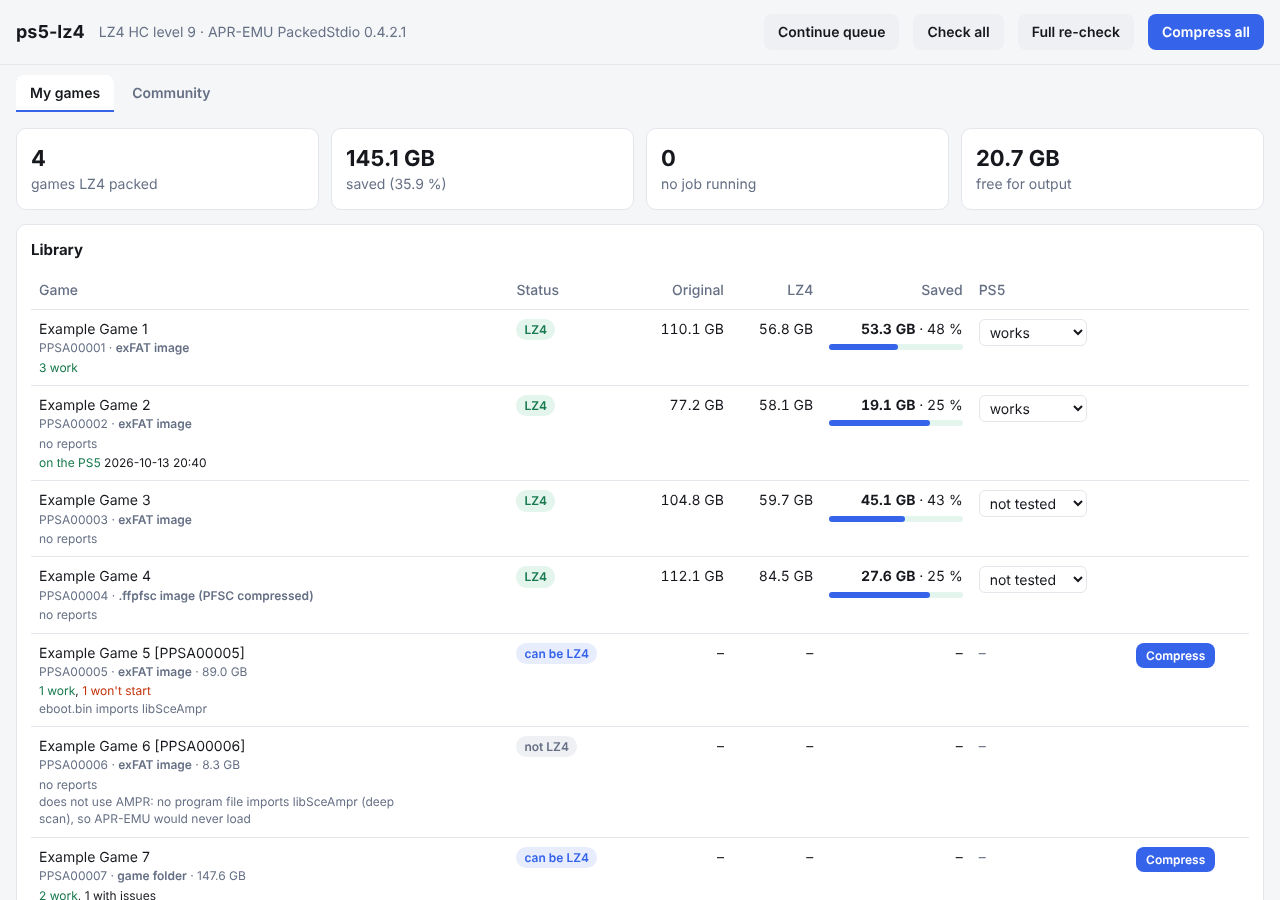
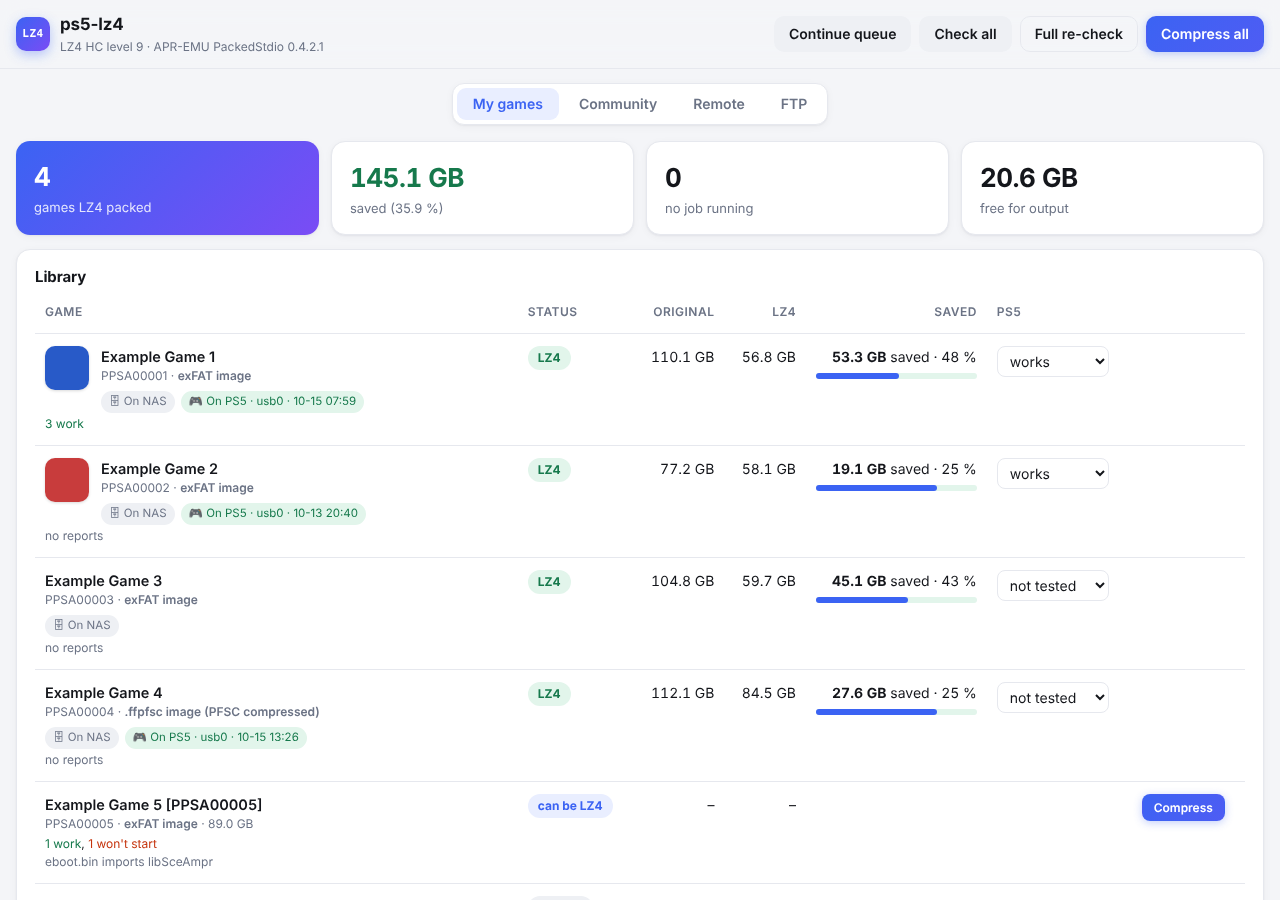
Web page: visual refresh
Sticky header with a logo, tabs as a segmented control, softer cards and
shadows, gradient primary buttons, clearer pills and chips (On NAS / On PS5
with the drive and date instead of long paths), uppercase table headers,
light and dark themes. On phones the library is a list of cards, header
buttons scroll with Compress all first, and game details open as a bottom
sheet. New example-game screenshot.

Claude-Session: https://claude.ai/code/session_01E59aT56xFViZr97Uu2YrmJ

diff --git a/nas-lz4/ui.html b/nas-lz4/ui.html
@@ -5,73 +5,137 @@
 <meta name="viewport" content="width=device-width, initial-scale=1">
 <title>ps5-lz4</title>
 <style>
-:root{--bg:#f5f6f8;--card:#fff;--line:#e3e6eb;--txt:#16181d;--mut:#667085;--ok:#18794e;--okbg:#e3f5ec;--acc:#3563e9;--accbg:#e7edfd;--warn:#9a6700;--warnbg:#fdf3dc;--bad:#c4320a;--badbg:#fdeae5;--chip:#eef0f3}
-@media (prefers-color-scheme:dark){:root{--bg:#0f1115;--card:#171a21;--line:#262b35;--txt:#e6e8ec;--mut:#8b93a3;--ok:#3fb68b;--okbg:#1d3a30;--acc:#5b8cff;--accbg:#1f2c4d;--warn:#e0a43a;--warnbg:#3a3220;--bad:#f0776f;--badbg:#3a2224;--chip:#232835}}
+:root{--bg:#f4f5f8;--card:#fff;--line:#e6e8ee;--txt:#14161b;--mut:#6b7385;--ok:#16794c;--okbg:#e2f5eb;--acc:#3b63f3;--acc2:#7a4cf5;--accbg:#e9eeff;--warn:#9a6200;--warnbg:#fdf2d8;--bad:#c5340d;--badbg:#fdebe5;--chip:#eef0f4;--shadow:0 1px 2px rgba(16,24,40,.05),0 2px 8px rgba(16,24,40,.04);--hdr:rgba(244,245,248,.82)}
+@media (prefers-color-scheme:dark){:root{--bg:#0d0f14;--card:#161920;--line:#252a35;--txt:#e7e9ee;--mut:#8c94a5;--ok:#43c08f;--okbg:#17332a;--acc:#6b8dff;--acc2:#a07bff;--accbg:#1c2747;--warn:#e7ad46;--warnbg:#382e1b;--bad:#f2807a;--badbg:#3a2124;--chip:#20242e;--shadow:0 1px 2px rgba(0,0,0,.3);--hdr:rgba(13,15,20,.8)}}
 *{box-sizing:border-box}
 [hidden]{display:none!important}
-body{margin:0;background:var(--bg);color:var(--txt);font:14px/1.45 -apple-system,Segoe UI,Roboto,sans-serif}
-header{display:flex;flex-wrap:wrap;align-items:center;gap:10px 14px;padding:14px 16px;border-bottom:1px solid var(--line)}
-header h1{font-size:18px;margin:0}.sub{color:var(--mut)}.sp{flex:1}
-button{font:inherit;border:0;border-radius:8px;padding:8px 14px;font-weight:600;cursor:pointer;background:var(--chip);color:var(--txt)}
-button.pri{background:var(--acc);color:#fff}button:disabled{opacity:.5;cursor:default}
-button.sm{padding:4px 10px;font-size:12px}
+html{-webkit-text-size-adjust:100%}
+body{margin:0;background:var(--bg);color:var(--txt);font:14px/1.5 -apple-system,BlinkMacSystemFont,"SF Pro Text","Segoe UI",Roboto,Inter,sans-serif;-webkit-font-smoothing:antialiased}
+a{color:var(--acc);text-decoration:none}a:hover{text-decoration:underline}
+code{font:12px/1.4 ui-monospace,SFMono-Regular,Menlo,monospace;background:var(--chip);padding:1px 5px;border-radius:5px}
+/* header */
+header{position:sticky;top:0;z-index:5;display:flex;flex-wrap:wrap;align-items:center;gap:10px 16px;padding:12px max(16px,calc((100% - 1280px)/2 + 16px));background:var(--hdr);backdrop-filter:saturate(180%) blur(14px);-webkit-backdrop-filter:saturate(180%) blur(14px);border-bottom:1px solid var(--line)}
+.brand{display:flex;align-items:center;gap:10px;min-width:0}
+.logo{width:34px;height:34px;border-radius:10px;background:linear-gradient(135deg,var(--acc),var(--acc2));color:#fff;display:grid;place-items:center;font:800 11px/1 ui-monospace,Menlo,monospace;letter-spacing:.5px;box-shadow:0 4px 12px rgba(59,99,243,.35)}
+header h1{font-size:17px;margin:0;letter-spacing:-.2px}.sub{color:var(--mut);font-size:12px;display:block;white-space:nowrap;overflow:hidden;text-overflow:ellipsis}
+.sp{flex:1}
+.hacts{display:flex;gap:8px;flex-wrap:wrap}
+/* buttons */
+button,label.btn{font:inherit;font-weight:600;border:1px solid transparent;border-radius:10px;padding:8px 14px;cursor:pointer;background:var(--chip);color:var(--txt);transition:background .15s,transform .05s,box-shadow .15s;display:inline-flex;align-items:center;gap:6px;line-height:1.3}
+button:hover,label.btn:hover{background:color-mix(in srgb,var(--chip) 80%,var(--txt) 8%)}
+button:active{transform:translateY(1px)}
+button:focus-visible,select:focus-visible,input:focus-visible{outline:2px solid var(--acc);outline-offset:2px}
+button.pri{background:linear-gradient(135deg,var(--acc),color-mix(in srgb,var(--acc) 70%,var(--acc2)));color:#fff;box-shadow:0 2px 8px rgba(59,99,243,.3)}
+button.pri:hover{filter:brightness(1.07)}
+button.ghost{background:transparent;border-color:var(--line)}
+button:disabled{opacity:.5;cursor:default;transform:none}
+button.sm{padding:5px 11px;font-size:12px;border-radius:8px}
+/* tabs */
+.tabs{position:sticky;top:59px;z-index:4;display:flex;gap:4px;margin:14px auto 0;padding:4px;max-width:max-content;background:var(--card);border:1px solid var(--line);border-radius:12px;box-shadow:var(--shadow);overflow-x:auto;scrollbar-width:none}
+.tabs::-webkit-scrollbar{display:none}
+.tabs button{background:none;border:0;border-radius:9px;color:var(--mut);padding:7px 16px;white-space:nowrap;box-shadow:none}
+.tabs button:hover{color:var(--txt);background:var(--chip)}
+.tabs button.on{background:var(--accbg);color:var(--acc)}
+/* layout */
 main{padding:16px;display:grid;grid-template-columns:minmax(0,1fr);gap:14px;max-width:1280px;margin:0 auto}
-.kpis{display:grid;grid-template-columns:repeat(auto-fit,minmax(150px,1fr));gap:12px}
-.k,.card{background:var(--card);border:1px solid var(--line);border-radius:10px;padding:14px}
-.k b{font-size:22px;display:block}.k span,.mut{color:var(--mut)}
-h2{font-size:15px;margin:0 0 10px}
-.steps{display:grid;grid-template-columns:repeat(6,1fr);gap:6px;margin:10px 0}
-.st{padding:6px 4px;border-radius:6px;background:var(--chip);color:var(--mut);text-align:center;font-size:12px}
-.st.d{background:var(--okbg);color:var(--ok)}.st.r{background:var(--accbg);color:var(--acc);font-weight:600}
-.bar{height:8px;background:var(--chip);border-radius:4px;overflow:hidden}.bar i{display:block;height:100%;background:var(--acc);transition:width .5s}
+.card,.k{background:var(--card);border:1px solid var(--line);border-radius:14px;padding:16px 18px;box-shadow:var(--shadow)}
+h2{font-size:15px;margin:0 0 10px;letter-spacing:-.1px}
+.mut{color:var(--mut)}
+.kpis{display:grid;grid-template-columns:repeat(auto-fit,minmax(170px,1fr));gap:12px}
+.k{position:relative;overflow:hidden}
+.k b{font-size:26px;display:block;letter-spacing:-.5px;font-variant-numeric:tabular-nums}
+.k span{color:var(--mut);font-size:13px}
+.k:first-child{background:linear-gradient(135deg,var(--acc),var(--acc2));border:0;color:#fff}.k:first-child span{color:rgba(255,255,255,.85)}
+.k:nth-child(2) b{color:var(--ok)}
+/* job */
+.steps{display:grid;grid-template-columns:repeat(6,1fr);gap:6px;margin:12px 0}
+.st{padding:7px 4px;border-radius:8px;background:var(--chip);color:var(--mut);text-align:center;font-size:12px;font-weight:500}
+.st.d{background:var(--okbg);color:var(--ok)}.st.r{background:var(--accbg);color:var(--acc);font-weight:700;box-shadow:inset 0 0 0 1px var(--acc)}
+.bar{height:8px;background:var(--chip);border-radius:99px;overflow:hidden}
+.bar i{display:block;height:100%;background:linear-gradient(90deg,var(--acc),var(--acc2));border-radius:99px;transition:width .5s}
+/* tables */
 .scroll{overflow-x:auto}
 table{width:100%;border-collapse:collapse;min-width:820px}
-th,td{text-align:left;padding:9px 8px;border-top:1px solid var(--line);vertical-align:top}
-th{color:var(--mut);font-weight:500;border-top:0}
+th,td{text-align:left;padding:12px 10px;border-top:1px solid var(--line);vertical-align:top}
+th{color:var(--mut);font-weight:600;font-size:12px;text-transform:uppercase;letter-spacing:.04em;border-top:0;padding-top:4px}
 .num{text-align:right;font-variant-numeric:tabular-nums;white-space:nowrap}
-.pill{display:inline-block;padding:2px 8px;border-radius:99px;font-size:12px;font-weight:600;white-space:nowrap}
+tr.row{cursor:pointer}tr.row td{transition:background .12s}tr.row:hover td{background:color-mix(in srgb,var(--chip) 60%,transparent)}
+.gname{font-weight:600;font-size:14.5px}
+.pill{display:inline-flex;align-items:center;gap:4px;padding:3px 10px;border-radius:99px;font-size:12px;font-weight:700;white-space:nowrap}
 .p-LZ4{background:var(--okbg);color:var(--ok)}.p-can{background:var(--accbg);color:var(--acc)}
 .p-no{background:var(--chip);color:var(--mut)}.p-err{background:var(--badbg);color:var(--bad)}
 .p-run{background:var(--warnbg);color:var(--warn)}
-.why{font-size:12px;color:var(--mut);max-width:360px}
-.sz{height:6px;margin-top:5px;min-width:90px;border-radius:3px;background:var(--okbg)}
-.sz i{display:block;height:100%;border-radius:3px;background:var(--acc)}
-select{font:inherit;padding:3px 6px;border-radius:6px;border:1px solid var(--line);background:var(--card);color:var(--txt)}
+.chips{display:flex;flex-wrap:wrap;gap:4px 6px;margin-top:6px}
+.chip{display:inline-flex;align-items:center;gap:4px;font-size:11.5px;padding:2px 8px;border-radius:99px;background:var(--chip);color:var(--mut);white-space:nowrap;max-width:100%;overflow:hidden;text-overflow:ellipsis}
+.chip.ok{background:var(--okbg);color:var(--ok)}.chip.bad{background:var(--badbg);color:var(--bad)}
+.why{font-size:12px;color:var(--mut);max-width:420px}
+.sz{height:6px;margin-top:6px;min-width:90px;border-radius:99px;background:var(--okbg)}
+.sz i{display:block;height:100%;border-radius:99px;background:var(--acc)}
+select{font:inherit;padding:5px 8px;border-radius:8px;border:1px solid var(--line);background:var(--card);color:var(--txt)}
 .good{color:var(--ok)}.bad{color:var(--bad)}
-.log div{overflow-wrap:anywhere;padding:6px 0;border-top:1px solid var(--line);font-size:13px}.log div:first-child{border-top:0}
-.log pre{margin:4px 0 0;white-space:pre-wrap;overflow-wrap:anywhere;font-size:12px;color:var(--mut);max-height:120px;overflow:auto}
-a{color:var(--acc)}
-.tabs{display:flex;gap:4px;padding:10px 16px 0;max-width:1280px;margin:0 auto}
-.tabs button{background:none;border-radius:8px 8px 0 0;color:var(--mut);padding:8px 14px}
-.steps-list{margin:10px 0 0;padding-left:20px;line-height:1.5}.steps-list ul{padding-left:18px;margin:4px 0}.steps-list li{margin-bottom:4px}
-.ico{float:left;width:40px;height:40px;border-radius:8px;object-fit:cover;margin:0 10px 4px 0}.ico.big{width:72px;height:72px;border-radius:12px}.fi{display:inline-block;text-align:center;font-size:26px;line-height:40px}
-label.btn{display:inline-block;cursor:pointer;background:var(--chip);color:var(--txt);border-radius:8px;padding:8px 14px;font-weight:600}
-.tabs button.on{background:var(--card);color:var(--txt);box-shadow:inset 0 -2px 0 var(--acc)}
+.log div{overflow-wrap:anywhere;padding:8px 0;border-top:1px solid var(--line);font-size:13px}.log div:first-child{border-top:0}
+.log pre{margin:6px 0 0;white-space:pre-wrap;overflow-wrap:anywhere;font:12px/1.4 ui-monospace,Menlo,monospace;color:var(--mut);max-height:120px;overflow:auto;background:var(--bg);border-radius:8px;padding:8px}
+.steps-list{margin:10px 0 0;padding-left:20px;line-height:1.6}.steps-list ul{padding-left:18px;margin:4px 0}.steps-list li{margin-bottom:4px}
+.ico{float:left;width:44px;height:44px;border-radius:10px;object-fit:cover;margin:0 12px 4px 0;box-shadow:0 1px 3px rgba(0,0,0,.15)}
+.ico.big{width:84px;height:84px;border-radius:16px;margin-right:16px}
+.fi{display:inline-block;text-align:center;font-size:26px;line-height:44px;box-shadow:none}
 .filters{display:flex;flex-wrap:wrap;gap:8px;margin:12px 0}
-.filters input{font:inherit;padding:6px 10px;border-radius:8px;border:1px solid var(--line);background:var(--card);color:var(--txt);flex:1;min-width:180px}
-.mine{font-size:11px;font-weight:600;color:var(--acc);margin-left:6px}
+.filters input,.filters select{font:inherit;padding:8px 12px;border-radius:10px;border:1px solid var(--line);background:var(--card);color:var(--txt);flex:1;min-width:180px}
+.mine{font-size:10.5px;font-weight:700;color:var(--acc);background:var(--accbg);padding:1px 7px;border-radius:99px;margin-left:6px;vertical-align:2px}
 .cm{font-size:12px;margin-top:2px}.kind{font-weight:600}
-.csec{background:var(--bg);border:1px solid var(--line);border-radius:10px;padding:12px 14px;margin:14px 0}
-.csec h4{margin:0 0 6px;font-size:14px}.cbar{display:flex;height:8px;border-radius:4px;overflow:hidden;background:var(--chip);margin:8px 0}
+.csec{background:var(--bg);border:1px solid var(--line);border-radius:12px;padding:12px 14px;margin:14px 0}
+.csec h4{margin:0 0 6px;font-size:14px}.cbar{display:flex;height:8px;border-radius:99px;overflow:hidden;background:var(--chip);margin:8px 0}
 .cbar i{display:block;height:100%}
-tr.row{cursor:pointer}tr.row:hover td{background:var(--chip)}
-.modal{position:fixed;inset:0;background:rgba(0,0,0,.45);display:flex;align-items:flex-start;justify-content:center;padding:40px 16px;overflow:auto;z-index:10}
-.sheet{position:relative;background:var(--card);border:1px solid var(--line);border-radius:12px;padding:20px;width:100%;max-width:640px}
-.sheet h3{margin:0 24px 4px 0;font-size:18px}.sheet .x{position:absolute;top:12px;right:12px;padding:4px 10px}
-.kv{display:grid;grid-template-columns:150px minmax(0,1fr);gap:6px 12px;margin:14px 0}.kv div:nth-child(odd){color:var(--mut)}
-.kv div{overflow-wrap:anywhere}.acts{display:flex;flex-wrap:wrap;gap:8px;margin-top:14px}
-.err{background:var(--badbg);color:var(--bad);border-radius:8px;padding:10px 12px}
-@media (max-width:640px){.steps{grid-template-columns:repeat(3,1fr)}}
+/* sheet */
+.modal{position:fixed;inset:0;background:rgba(10,12,18,.5);backdrop-filter:blur(3px);-webkit-backdrop-filter:blur(3px);display:flex;align-items:flex-start;justify-content:center;padding:48px 16px;overflow:auto;z-index:10;animation:fade .15s}
+.sheet{position:relative;background:var(--card);border:1px solid var(--line);border-radius:18px;padding:22px;width:100%;max-width:660px;box-shadow:0 20px 60px rgba(0,0,0,.25);animation:rise .2s ease-out}
+.sheet h3{margin:4px 32px 4px 0;font-size:20px;letter-spacing:-.3px}.sheet .x{position:absolute;top:14px;right:14px;padding:5px 11px;border-radius:99px}
+.kv{display:grid;grid-template-columns:150px minmax(0,1fr);gap:8px 14px;margin:16px 0;clear:both}.kv div:nth-child(odd){color:var(--mut)}
+.kv div{overflow-wrap:anywhere}.acts{display:flex;flex-wrap:wrap;gap:8px;margin-top:16px}
+.err{background:var(--badbg);color:var(--bad);border-radius:10px;padding:10px 12px}
+footer{opacity:.8}
+.mob{display:none}
+@keyframes fade{from{opacity:0}}@keyframes rise{from{transform:translateY(12px);opacity:0}}
+/* phones */
+@media (max-width:760px){
+  header{padding:10px 14px;gap:8px}
+  .hacts{width:100%;flex-wrap:nowrap;overflow-x:auto;scrollbar-width:none;margin:0 -2px;padding:2px}
+  .hacts::-webkit-scrollbar{display:none}.hacts button{white-space:nowrap;flex:none}
+  .tabs{position:static;margin:12px 12px 0;max-width:none}
+  .hacts .pri{order:-1}.tabs button{flex:1;padding:7px 10px}
+  main{padding:12px}
+  .card{padding:14px}
+  .steps{grid-template-columns:repeat(3,1fr)}
+  .k b{font-size:22px}
+  table#games{min-width:0}
+  #games tr:first-child{display:none}
+  #games tr.row{display:grid;grid-template-columns:1fr auto;gap:6px 10px;padding:14px 0;border-top:1px solid var(--line)}
+  #games tr.row:first-of-type{border-top:0}
+  #games td{border:0;padding:0}
+  #games td.c-game{grid-column:1}#games td.c-status{grid-column:2;grid-row:1;text-align:right}
+  #games td.c-src,#games td.c-out{display:none}
+  .mob{display:inline}
+  #games td.c-saved{grid-column:1/-1;text-align:left}#games td.c-saved .sz{max-width:none}
+  #games td.c-ps5:empty,#games td.c-act:empty{display:none}
+  #games td.c-ps5{grid-column:1}#games td.c-act{grid-column:2;text-align:right}
+  #games td.c-ps5 .mut{display:none}
+  .kv{grid-template-columns:1fr;gap:2px}.kv div:nth-child(odd){margin-top:8px;font-size:12px;text-transform:uppercase;letter-spacing:.04em}
+  .modal{padding:40px 0 0;align-items:flex-end}
+  .sheet{border-radius:20px 20px 0 0;max-width:none;min-height:70vh;animation:up .22s ease-out}
+}
+@keyframes up{from{transform:translateY(40px);opacity:.4}}
 </style>
 </head>
 <body>
 <header>
-  <h1>ps5-lz4</h1><span class="sub" id="sub"></span><span class="sp"></span>
+  <div class="brand"><div class="logo">LZ4</div><div><h1>ps5-lz4</h1><span class="sub" id="sub"></span></div></div><span class="sp"></span>
+  <div class="hacts">
   <button id="b-resume" hidden onclick="act('resume')">Continue queue</button>
   <button title="Checks every game without changing anything. Games unchanged since their last check are taken from the database." onclick="act('check')">Check all</button>
-  <button title="Checks every game again, ignoring the database" onclick="act('check_full', 'Check every game again, ignoring earlier results?\n\nThis reads every LZ4 game in full and can take a while.')">Full re-check</button>
+  <button class="ghost" title="Checks every game again, ignoring the database" onclick="act('check_full', 'Check every game again, ignoring earlier results?\n\nThis reads every LZ4 game in full and can take a while.')">Full re-check</button>
   <button class="pri" id="b-fix" title="Compresses every game that can be LZ4, one at a time"
     onclick="act('fix', 'Compress every game that can be LZ4?\n\nThey are queued and compressed one at a time. If a job is running, this starts when it is done.')">Compress all</button>
+  </div>
 </header>
 <nav class="tabs">
   <button id="t-mine" class="on" onclick="tab('mine')">My games</button>
@@ -352,12 +416,13 @@ function render() {
         : txr && txr.state === 'failed' && !d.transfer
         ? `<button class="sm pri" data-id="${esc(g.output.split('/').pop())}" data-name="${esc(g.name)}" onclick="event.stopPropagation();push(this.dataset.id, this.dataset.name)">Resume transfer</button>` : '';
       const why = g.verdict !== 'LZ4' && !g.running ? `<div class="why">${esc(g.why)}</div>` : '';
-      return `<tr class="row" data-id="${esc(g.id)}" onclick="if(!event.target.closest('select,button,a'))openGame(this.dataset.id)"><td><img class="ico" alt="" loading="lazy" src="/api/icon?id=${encodeURIComponent(g.id)}" onerror="this.remove()">${esc(g.name)}${g.output_only ? '<span class="mine">LZ4 FOLDER</span>' : ''}<div class="why">${esc(g.title_id)} · <span class="kind">${esc(KIND_EN[g.kind] || g.kind)}</span>${g.source_size && !g.source_bytes ? ' · ' + gb(g.source_size) : ''}</div>${placeHtml(g)}<div class="cm">${community(g.community)}</div>${g.output && (data.transfers || {})[g.output.split('/').pop()] ? `<div class="cm">${xferText(data.transfers[g.output.split('/').pop()])}</div>` : ''}${why}</td>
-        <td><span class="pill ${v[0]}">${v[1]}</span></td>
-        <td class="num">${gb(g.source_bytes)}</td><td class="num">${gb(g.output_bytes)}</td>
-        <td class="num">${g.saved_percent != null ? `<b>${gb(g.source_bytes - g.output_bytes)}</b> · ${Math.round(g.saved_percent)} %
-          <div class="sz" title="LZ4 ${gb(g.output_bytes)} of original ${gb(g.source_bytes)}"><i style="width:${(100 - g.saved_percent).toFixed(1)}%"></i></div>` : '–'}</td>
-        <td>${ps5}</td><td>${action}</td></tr>`;
+      const tx = txr && txr.state !== 'done' ? `<div class="cm">${xferText(txr)}</div>` : '';
+      return `<tr class="row" data-id="${esc(g.id)}" onclick="if(!event.target.closest('select,button,a'))openGame(this.dataset.id)"><td class="c-game"><img class="ico" alt="" loading="lazy" src="/api/icon?id=${encodeURIComponent(g.id)}" onerror="this.remove()"><span class="gname">${esc(g.name)}</span>${g.output_only ? '<span class="mine">LZ4 FOLDER</span>' : ''}<div class="why">${esc(g.title_id)} · <span class="kind">${esc(KIND_EN[g.kind] || g.kind)}</span>${g.source_size && !g.source_bytes ? ' · ' + gb(g.source_size) : ''}</div>${placeHtml(g)}<div class="cm">${community(g.community)}</div>${tx}${why}</td>
+        <td class="c-status"><span class="pill ${v[0]}">${v[1]}</span></td>
+        <td class="num c-src">${gb(g.source_bytes)}</td><td class="num c-out">${gb(g.output_bytes)}</td>
+        <td class="num c-saved">${g.saved_percent != null ? `<b>${gb(g.source_bytes - g.output_bytes)}</b> saved · ${Math.round(g.saved_percent)} %<span class="mut mob"> · ${gb(g.source_bytes)} → ${gb(g.output_bytes)}</span>
+          <div class="sz" title="LZ4 ${gb(g.output_bytes)} of original ${gb(g.source_bytes)}"><i style="width:${(100 - g.saved_percent).toFixed(1)}%"></i></div>` : ''}</td>
+        <td class="c-ps5">${lz4 && !g.output_only ? ps5 : ''}</td><td class="c-act">${action}</td></tr>`;
     }).join('');
 
   const log = document.getElementById('log');
@@ -534,7 +599,10 @@ function ps5Place(g) {
 function placeHtml(g) {
   if (!g.output) return '';
   const pp = ps5Place(g);
-  return `<div class="why">NAS: ${esc(g.output)}</div>` + (pp && pp.sent ? `<div class="why">PS5: ${esc(pp.path)}</div>` : '');
+  const t = (data.transfers || {})[g.output.split('/').pop()];
+  const drive = pp && pp.sent ? (pp.path.match(/^\/mnt\/([^/]+)/) || [, 'internal'])[1] : '';
+  return `<div class="chips"><span class="chip" title="${esc(g.output)}">🗄 On NAS</span>` +
+    (pp && pp.sent ? `<span class="chip ok" title="${esc(pp.path)}">🎮 On PS5 · ${esc(drive)}${t && t.finished ? ' · ' + esc(t.finished.slice(5, 16)) : ''}</span>` : '') + '</div>';
 }
 async function aprCheck(path, el) {
   el = el || document.getElementById('ftp-msg');
